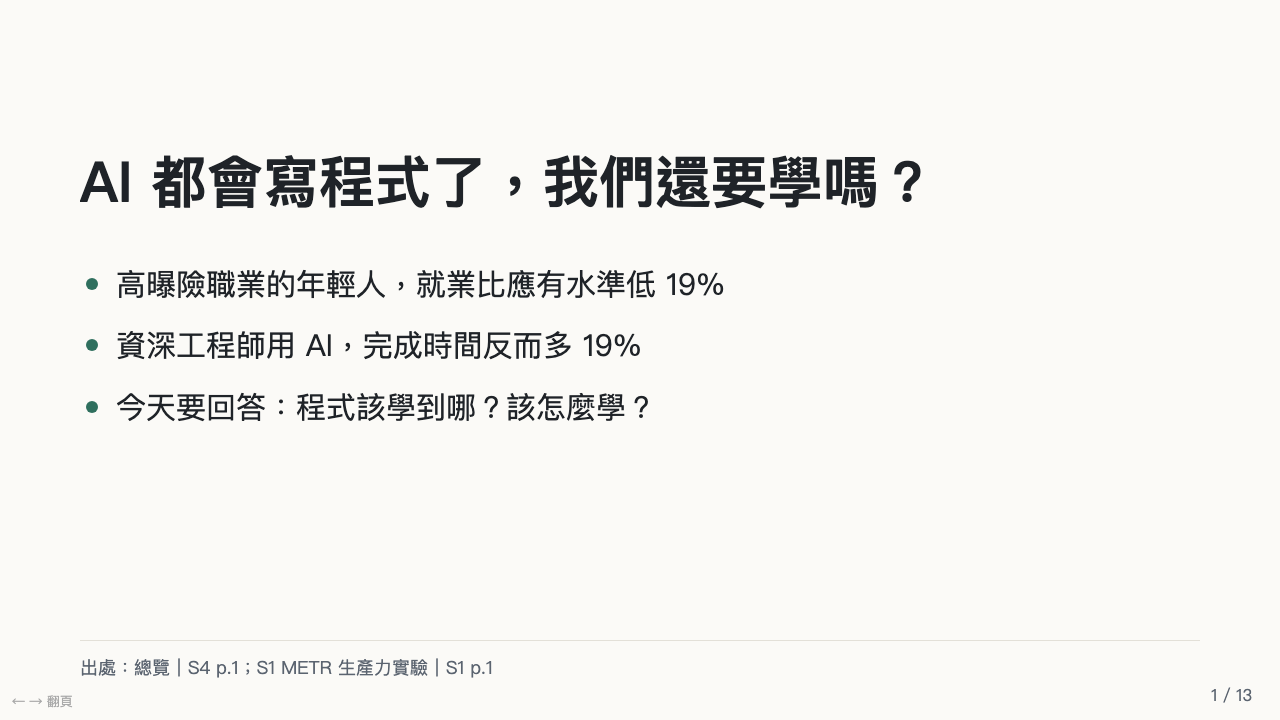
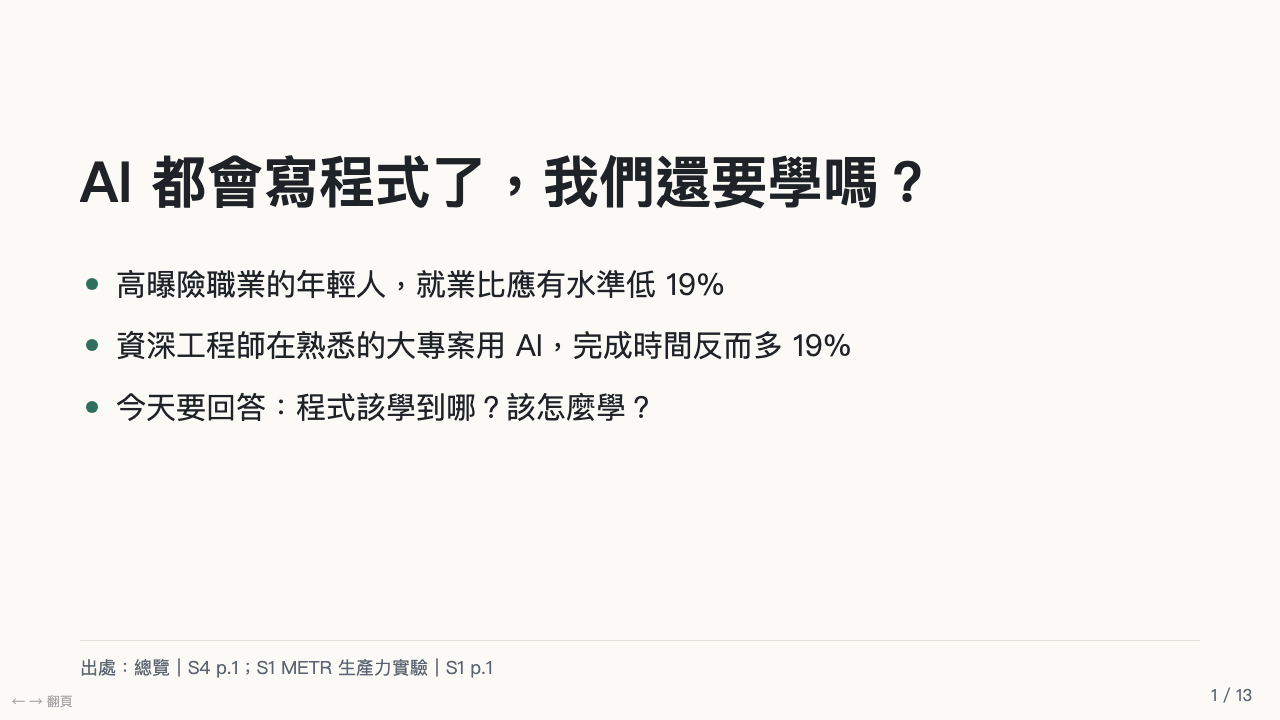
[G3][N5][G4][N6] v2 第二次執行：G3 round-4 13/13 PASS、重新渲染、G4 通過；report 追加 v1/v2 比較；README 與反思

Changed region(s): [[0.1875, 0.4583, 0.6562, 0.5194]]

diff --git a/slides/index.html b/slides/index.html
@@ -34,7 +34,7 @@ html, body { height: 100%; background: #2b2b2b; font-family: "PingFang TC", "Not
       <h1>AI 都會寫程式了，我們還要學嗎？</h1>
       <ul>
       <li>高曝險職業的年輕人，就業比應有水準低 19%</li>
-      <li>資深工程師用 AI，完成時間反而多 19%</li>
+      <li>資深工程師在熟悉的大專案用 AI，完成時間反而多 19%</li>
       <li>今天要回答：程式該學到哪？該怎麼學？</li>
       </ul>
       <p class="src">出處：總覽｜S4 p.1；S1 METR 生產力實驗｜S1 p.1</p>
@@ -73,7 +73,7 @@ html, body { height: 100%; background: #2b2b2b; font-family: "PingFang TC", "Not
       <ul>
       <li>有經驗的工程師用 AI 學新程式庫：事後測驗低 17%</li>
       <li>差最多的是除錯題</li>
-      <li>另一研究：沒寫過程式的中小學生用 AI 練習，事後測驗與對照組相近</li>
+      <li>另一研究：沒寫過文字程式的中小學生用 AI 練習，事後測驗與對照組相近</li>
       <li>但那裡每題後都要自己改程式</li>
       <li>而且好處集中在本來基礎較好的學生</li>
       </ul>

diff --git a/topic/ai-era-coding/review/round-4.md b/topic/ai-era-coding/review/round-4.md
@@ -1,0 +1,28 @@
+# G3 忠實度審查 round-4（workflow v2）
+
+> 新開的 faithfulness-reviewer subagent（第 4 個實例）。輸入同 round-3。
+> 注意：本輪 prompt 多加一句「FAIL 只用於會讓讀者誤解原文的問題；不影響意思的用詞偏好請列為附註」（重申 agent 定義中「輕微的用詞偏好不算 FAIL」），以降低不同審查實例間的標準差異。
+
+## 結果：13／13 PASS；不需退回 N4；不需退回 N2
+
+| 頁 | 判定 | 附註 |
+|---|---|---|
+| slide-01 | PASS | A1：「應有水準」省略比較基準，slide-02 有完整寫 |
+| slide-02 | PASS | — |
+| slide-03 | PASS | A2：「常要大改」原文有支撐（S1 p.11），但 C08 沒涵蓋 |
+| slide-04 | PASS | C12「沒寫過文字程式」、C10「有經驗的工程師」皆符合原文 |
+| slide-05 | PASS | — |
+| slide-06 | PASS | — |
+| slide-07 | PASS | A3：88% 可補樣本數 25 則 |
+| slide-08 | PASS | — |
+| slide-09 | PASS | — |
+| slide-10 | PASS | A4：「學習模式」未標未實測，與 C31 scope 不一致 |
+| slide-11 | PASS | A5：「要自己驗證」為合理延伸；C20 省略 "appears to be"（slide-08、13），影響輕微 |
+| slide-12 | PASS | — |
+| slide-13 | PASS | 4 點都在前面頁出現過，無新論點 |
+
+## 卡片問題
+無需退回。keep 欄位都與原文一致。建議（非錯誤）：C06 quote 補 24% 那句；C08 claim 補「多數人表示常需大改」。
+
+## 覆蓋率
+brief 所有問題都有被回答。

diff --git a/process/workflow-changes.md b/process/workflow-changes.md
@@ -55,4 +55,12 @@
 | N4 check_drafts（v2） | 補 〔Cxx〕 標籤後第 1 輪通過，可見文字沒有改 |
 | N5 build_slides | 產生的 HTML 與 v1 逐字相同 |
 | G4 check_render | 第 1 輪通過 |
-| G3 round-3 | 見 `report.md` 第 7 節 |
+| G3 round-3 | 11/13 PASS：slide-01 漏「熟悉的大專案」；slide-04「沒寫過程式」應為「沒寫過**文字**程式」，而且這個錯誤被 v2 寫進 C12 的 `keep` |
+| G3 round-4 | 13/13 PASS |
+| G4 | 通過 |
+
+## 5. v2 跑完後的新發現（尚未改成 v3）
+
+1. **`keep` 會鎖住錯誤**：keep 是「一定要留的詞」，寫錯時腳本會強制稿子保留錯字。對策：keep 也列入 G3 審查（round-3 起已要求審查者檢查 keep）；之後可考慮讓 `check_cards.py` 要求 keep 詞必須出現在 scope 裡，至少確保兩者一致。
+2. **G3 審查者標準不一致**：同一句話（slide-01）在 round-1、2 判 PASS，round-3 判 FAIL。對策：在 agent 定義裡把 FAIL 的門檻寫得更具體（例如列出必須保留的條件類型：對象、情境、是否顯著、保留語氣），而不是每次在 prompt 裡補充。
+3. **修正本身會引入新錯**：slide-04 的錯字是在 round-1 退件後修改時加進去的。每次修正後仍要重跑 G3（v1、v2 都有這樣做，才抓得到）。
